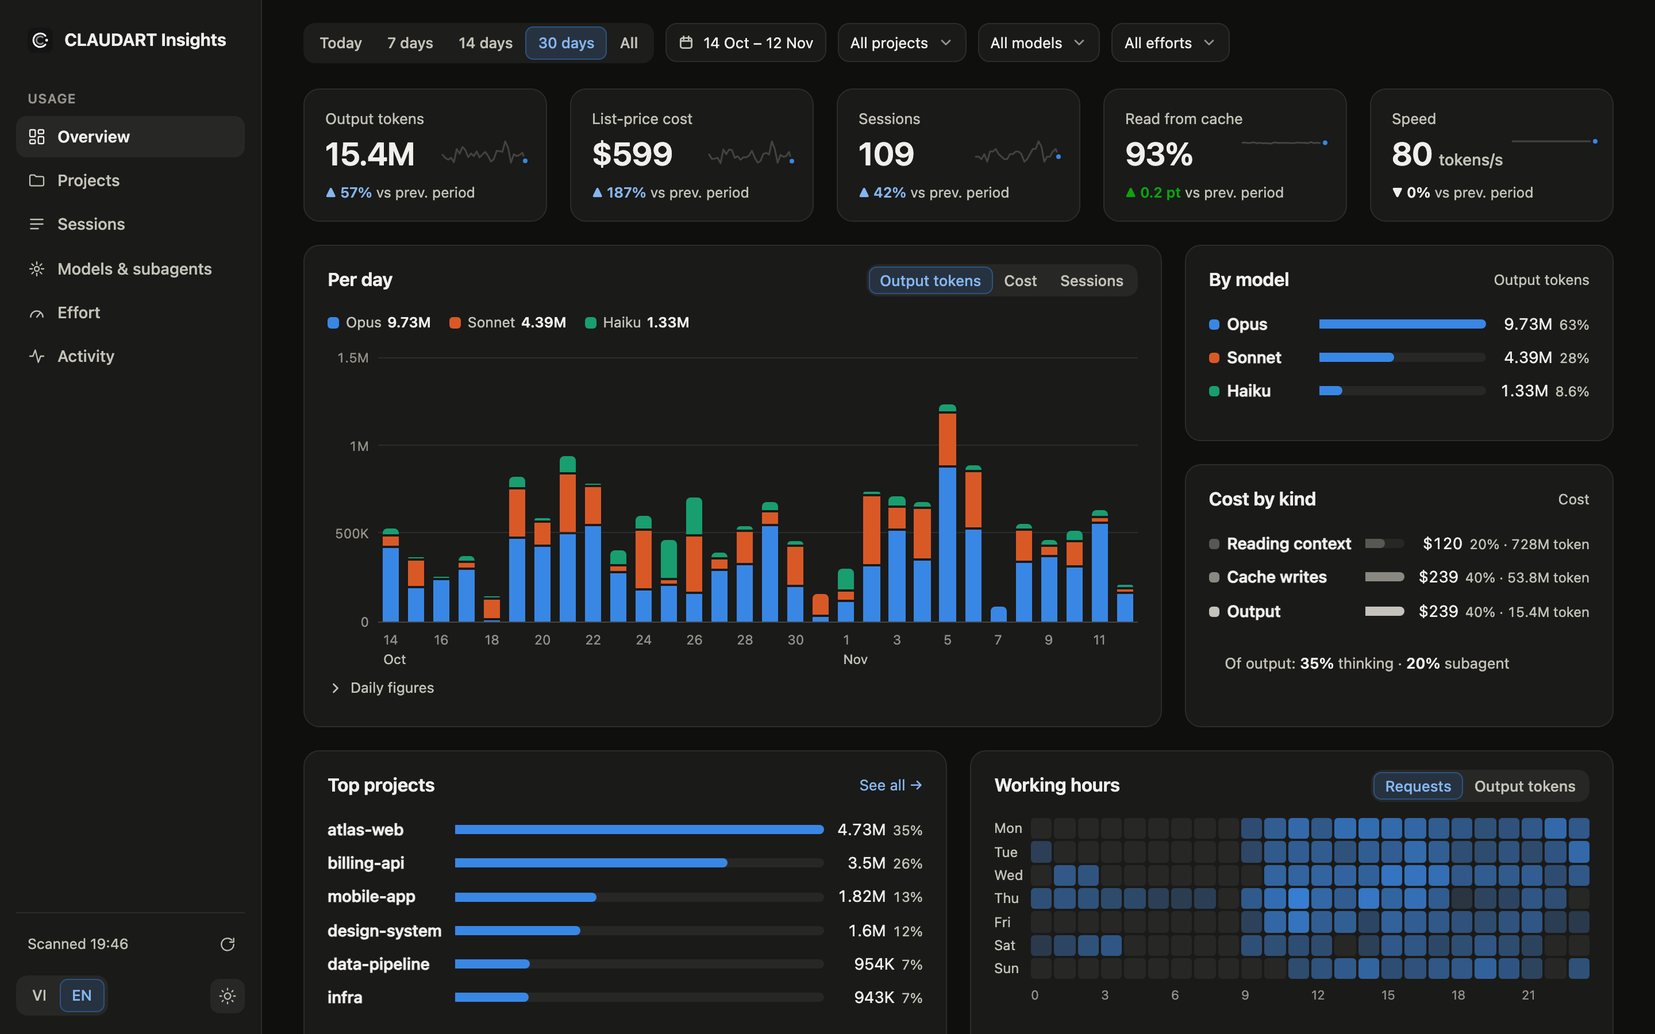
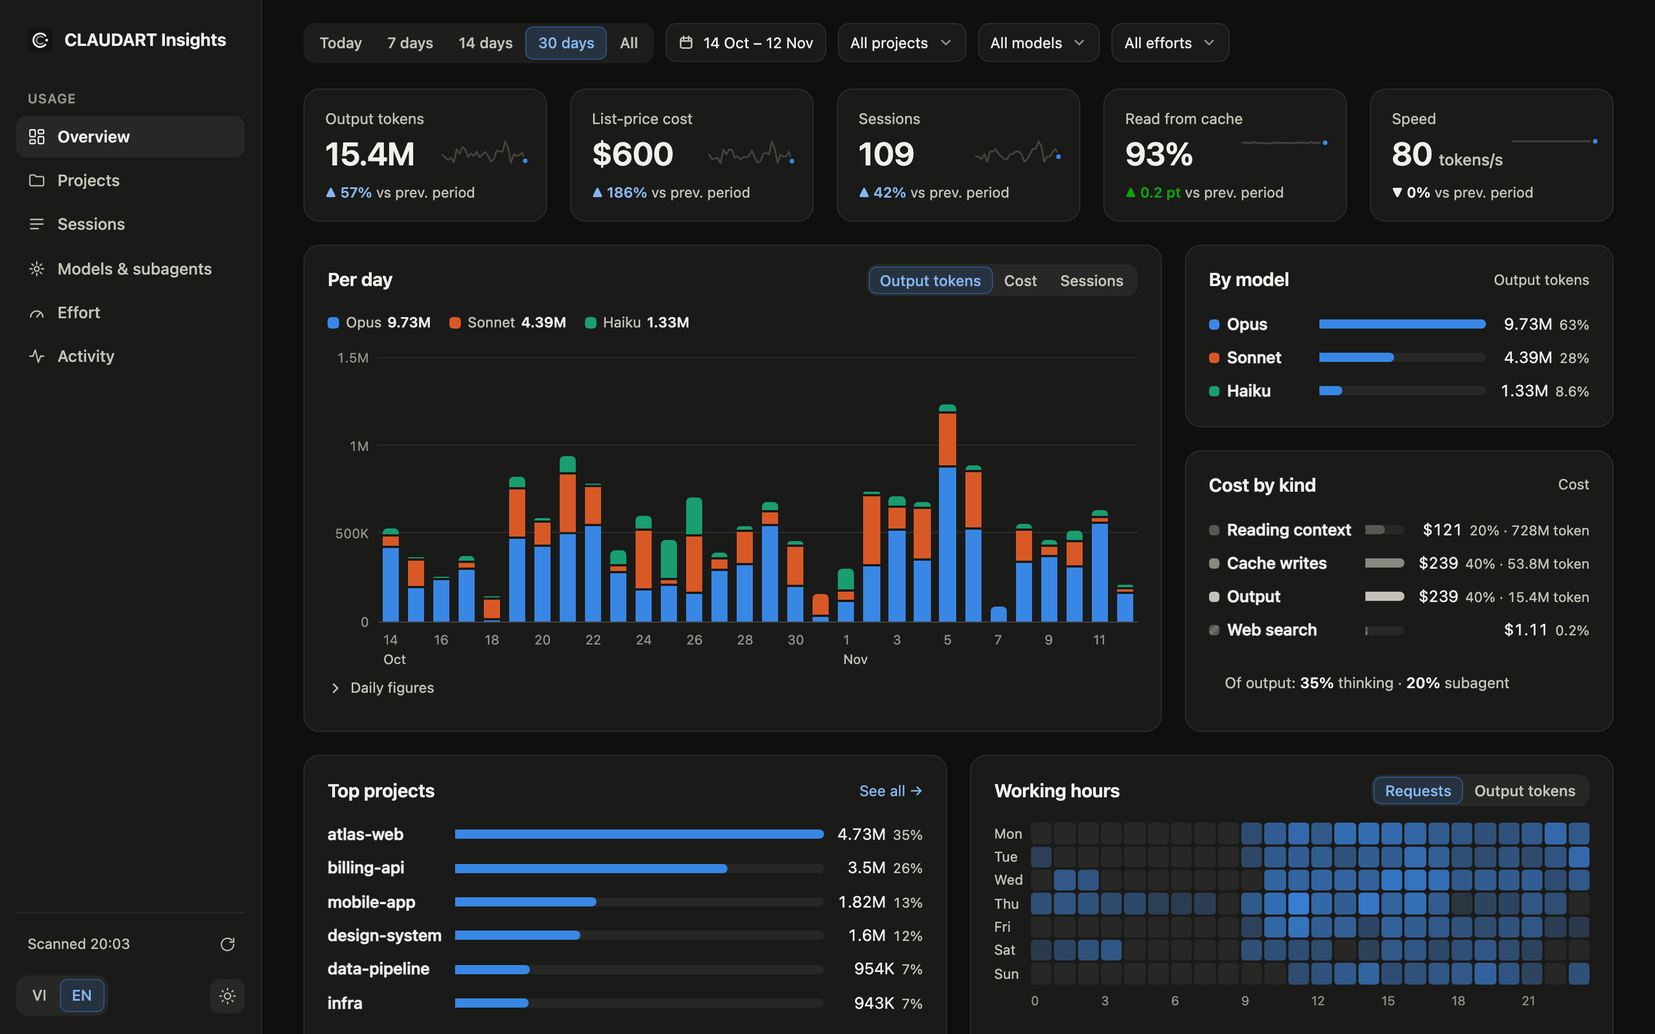
fix: split cost the host charged with no request, and show web search
Claude Code runs Haiku in the background, mostly for the WebSearch
tool, and writes no request to the transcript, so its whole cost showed
as not split. The host cost record's tokens per model are now kept and
split that cost with the price table. What a model that searched the
web cost beyond its priced tokens is a kind of its own, web search,
whether or not its requests are in the transcript.

Unlabelled bar segments drop their padding so a tiny part keeps its
true width.

Closes #12

diff --git a/dashboard/src/i18n.tsx b/dashboard/src/i18n.tsx
@@ -10,7 +10,7 @@ export const T = {
     rbInfo: "Mỗi request đọc lại cuộc trò chuyện từ prompt cache với giá rẻ. Khi cache mất, request đó phải ghi lại gần hết context vào cache, đắt gấp 25–40 lần đọc. Bảng đếm các lần ghi lại theo nguyên nhân; chi phí thêm là phần trả hơn so với chỉ đọc.", howToRead: "Cách đọc",
     rbTokens: "Token ghi lại", rbExtra: "Chi phí thêm", gapShort: "5–15 phút", gapMid: "15–60 phút", gapLong: "Trên 1 giờ", idleGap: "Đã nghỉ bao lâu trước lần dựng lại", lapses: "Cache hết hạn", session: "Phiên", modelEffort: "Model · effort", nSubs: (n: number) => `${n} subagent`, nLapses: (n: number) => `${n} lần cache hết hạn`,
     tools: "Công cụ được gọi", calls: "lượt", skills: "Skill được dùng", uses: "lượt", skillCount: "skill", skillTyped: "Gõ lệnh /", skillAgent: "Agent tự gọi", lastUsed: "Dùng gần nhất", showFewer: "Thu gọn", srcProject: "Project", srcPersonal: "Cá nhân", srcPlugin: "Plugin", srcBuiltin: "Có sẵn", srcOther: "Khác", errors: "lỗi", time: "Thời gian agent làm việc", linesAR: "Dòng code thêm / xoá", api: "Chờ model", tool: "Chạy công cụ", idle: "Chờ owner, nghỉ", lines: "Dòng code thêm và xoá", added: "Thêm", removed: "Xoá", compactions: "Lần nén context", ownerTurns: "Lượt owner",
-    lastActive: "Lần cuối", whereMoney: "Tiền đi vào model nào", ctxPerReq: "Context / request", costKinds: "Chi phí gồm", kRead: "Đọc context", kWrite: "Ghi cache", kOut: "Output", kRest: "Không tách được", splitModel: "Theo model", splitKind: "Theo loại chi phí", costByKind: "Chi phí theo loại", figures: "Bảng số liệu", mainVsSub: "Luồng chính và subagent", mainThread: "Luồng chính", routedTitle: "Subagent chạy trên model nào", spawnedOn: (p: string, m: string) => `${p} → ${m}`, costNotes: "Chi phí chưa chắc chắn", stUnknown: "không có bản ghi", stPartial: "chưa đủ", stEst: "ước tính", moreSess: (n: number) => `và ${n} phiên khác`, priceOff: (n: string, d: string) => `lệch bảng giá ở ${n} phiên, từ ${d}`, noPrice: "chưa có giá", costPerSess: "Chi phí mỗi phiên", avgDur: "Thời lượng mỗi phiên", turnsPerSess: "Lượt owner mỗi phiên", compactPerSess: "Nén context mỗi phiên", costPerKLines: "Chi phí mỗi 1.000 dòng code", allProj: "Mọi dự án", shareBy: "Phần của mỗi dự án",
+    lastActive: "Lần cuối", whereMoney: "Tiền đi vào model nào", ctxPerReq: "Context / request", costKinds: "Chi phí gồm", kRead: "Đọc context", kWrite: "Ghi cache", kOut: "Output", kWeb: "Web search", kRest: "Không tách được", splitModel: "Theo model", splitKind: "Theo loại chi phí", costByKind: "Chi phí theo loại", figures: "Bảng số liệu", mainVsSub: "Luồng chính và subagent", mainThread: "Luồng chính", routedTitle: "Subagent chạy trên model nào", spawnedOn: (p: string, m: string) => `${p} → ${m}`, costNotes: "Chi phí chưa chắc chắn", stUnknown: "không có bản ghi", stPartial: "chưa đủ", stEst: "ước tính", moreSess: (n: number) => `và ${n} phiên khác`, priceOff: (n: string, d: string) => `lệch bảng giá ở ${n} phiên, từ ${d}`, noPrice: "chưa có giá", costPerSess: "Chi phí mỗi phiên", avgDur: "Thời lượng mỗi phiên", turnsPerSess: "Lượt owner mỗi phiên", compactPerSess: "Nén context mỗi phiên", costPerKLines: "Chi phí mỗi 1.000 dòng code", allProj: "Mọi dự án", shareBy: "Phần của mỗi dự án",
     nodata: "Không có dữ liệu trong khoảng lọc này.", wd: ["T2", "T3", "T4", "T5", "T6", "T7", "CN"], wdShort: ["T2", "T3", "T4", "T5", "T6", "T7", "CN"], theme: "Đổi sáng/tối",
    
     refresh: "Làm mới", scanning: "Đang quét…", bootFind: "Đang tìm transcript…", bootFirst: "Đang đọc transcript lần đầu", bootRebuild: "Đang dựng lại dữ liệu sau khi cập nhật", bootUpdate: "Đang quét transcript mới", bootFinish: "Đang tổng hợp số liệu…", transcripts: "transcript", retry: "Thử lại", scanNew: (n: number) => `${n} phiên mới`, scanFail: "Quét lỗi", loadFail: "Không đọc được dữ liệu", loading: "Đang tải…" },
@@ -24,7 +24,7 @@ export const T = {
     rbInfo: "Each request rereads the conversation from the prompt cache at a low price. When the cache is gone, the request writes most of the context into it again, at 25–40 times the read price. The table counts these rewrites by cause; extra cost is what they cost beyond a read.", howToRead: "How to read",
     rbTokens: "Rewritten tokens", rbExtra: "Extra cost", gapShort: "5–15 min", gapMid: "15–60 min", gapLong: "Over 1 h", idleGap: "Idle time before the rebuild", lapses: "Cache lapses", session: "Session", modelEffort: "Model · effort", nSubs: (n: number) => `${n} subagent${n === 1 ? "" : "s"}`, nLapses: (n: number) => `${n} cache lapse${n === 1 ? "" : "s"}`,
     tools: "Tool calls", calls: "calls", skills: "Skills used", uses: "uses", skillCount: "skills", skillTyped: "Typed as /command", skillAgent: "Called by the agent", lastUsed: "Last used", showFewer: "Show fewer", srcProject: "Project", srcPersonal: "Personal", srcPlugin: "Plugin", srcBuiltin: "Built-in", srcOther: "Other", errors: "errors", time: "Agent working time", linesAR: "Lines added / removed", api: "Waiting for the model", tool: "Running tools", idle: "Idle, waiting for the owner", lines: "Lines added and removed", added: "Added", removed: "Removed", compactions: "Compactions", ownerTurns: "Owner turns",
-    lastActive: "Last active", whereMoney: "Which model the money goes to", ctxPerReq: "Context per request", costKinds: "Cost made of", kRead: "Reading context", kWrite: "Cache writes", kOut: "Output", kRest: "Not split", splitModel: "By model", splitKind: "By cost kind", costByKind: "Cost by kind", figures: "Figures", mainVsSub: "Main thread and subagents", mainThread: "Main thread", routedTitle: "Which model subagents ran on", spawnedOn: (p: string, m: string) => `${p} → ${m}`, costNotes: "Cost not certain", stUnknown: "no record", stPartial: "incomplete", stEst: "estimated", moreSess: (n: number) => `and ${n} more sessions`, priceOff: (n: string, d: string) => `off the price table in ${n} sessions since ${d}`, noPrice: "no price", costPerSess: "Cost per session", avgDur: "Length per session", turnsPerSess: "Owner turns per session", compactPerSess: "Compactions per session", costPerKLines: "Cost per 1,000 lines", allProj: "All projects", shareBy: "Each project's share",
+    lastActive: "Last active", whereMoney: "Which model the money goes to", ctxPerReq: "Context per request", costKinds: "Cost made of", kRead: "Reading context", kWrite: "Cache writes", kOut: "Output", kWeb: "Web search", kRest: "Not split", splitModel: "By model", splitKind: "By cost kind", costByKind: "Cost by kind", figures: "Figures", mainVsSub: "Main thread and subagents", mainThread: "Main thread", routedTitle: "Which model subagents ran on", spawnedOn: (p: string, m: string) => `${p} → ${m}`, costNotes: "Cost not certain", stUnknown: "no record", stPartial: "incomplete", stEst: "estimated", moreSess: (n: number) => `and ${n} more sessions`, priceOff: (n: string, d: string) => `off the price table in ${n} sessions since ${d}`, noPrice: "no price", costPerSess: "Cost per session", avgDur: "Length per session", turnsPerSess: "Owner turns per session", compactPerSess: "Compactions per session", costPerKLines: "Cost per 1,000 lines", allProj: "All projects", shareBy: "Each project's share",
     nodata: "No data in this filter range.", wd: ["Mon", "Tue", "Wed", "Thu", "Fri", "Sat", "Sun"], wdShort: ["Mo", "Tu", "We", "Th", "Fr", "Sa", "Su"], theme: "Toggle light/dark",
    
     refresh: "Refresh", scanning: "Scanning…", bootFind: "Finding transcripts…", bootFirst: "Reading your transcripts for the first time", bootRebuild: "Rebuilding the data after an update", bootUpdate: "Scanning new transcripts", bootFinish: "Putting the figures together…", transcripts: "transcripts", retry: "Try again", scanNew: (n: number) => `${n} new sessions`, scanFail: "Scan failed", loadFail: "Cannot read the data", loading: "Loading…" },

diff --git a/dashboard/src/styles.css b/dashboard/src/styles.css
@@ -3,7 +3,7 @@
   --hair: #e4e3dc; --base: #c9c8be; --wash: rgba(11,11,11,.045); --accent: #2a78d6; --accent-ink: #1c5cab;
   --s1: #2a78d6; --s2: #eb6834; --s3: #1baf7a; --s4: #eda100; --s5: #e87ba4; --s0: #b9b8b0; --sub: #6d4fe8; --seq: #2a78d6;
   --v0: #c9c4fb; --v1: #9d93f5; --v2: #6f5ce6; --v3: #4630c0; --v4: #26177a;
-  --k0: #dcdad2; --k1: #a5a39a; --k2: #64625c;
+  --k0: #dcdad2; --k1: #a5a39a; --k2: #64625c; --kw: repeating-linear-gradient(135deg, #dcdad2 0 4px, #c2c0b8 4px 8px);
   --good: #0ca30c; --up: #1c5cab; --neg: #d03b3b; --shadow: 0 8px 28px rgba(0,0,0,.10);
   --sb: rgba(11,11,11,.18); --sb-hover: rgba(11,11,11,.34);
 }
@@ -12,7 +12,7 @@
   --hair: #2c2c2a; --base: #44443f; --wash: rgba(255,255,255,.06); --accent: #3987e5; --accent-ink: #86b6ef;
   --s1: #3987e5; --s2: #d95926; --s3: #199e70; --s4: #c98500; --s5: #d55181; --s0: #5a5a55; --sub: #7b66f0; --seq: #3987e5;
   --v0: #30286a; --v1: #4e42ae; --v2: #7c6ff0; --v3: #b2abff; --v4: #e4e1ff;
-  --k0: #585853; --k1: #8a8981; --k2: #c4c2ba;
+  --k0: #585853; --k1: #8a8981; --k2: #c4c2ba; --kw: repeating-linear-gradient(135deg, #585853 0 4px, #6e6d67 4px 8px);
   --good: #0ca30c; --up: #86b6ef; --neg: #e66767; --shadow: 0 8px 28px rgba(0,0,0,.5);
   --sb: rgba(255,255,255,.16); --sb-hover: rgba(255,255,255,.32);
 }
@@ -163,15 +163,16 @@ tbody tr.go:hover td, tbody tr.go:hover th { background: var(--wash); }
 .heat .cell { aspect-ratio: 1 / 1; max-height: 26px; width: 100%; border-radius: 3px; background: color-mix(in srgb, var(--seq) var(--m), var(--wash)); }
 .heat .cell:hover { outline: 2px solid var(--ink); outline-offset: -1px; }
 .split { display: flex; gap: 2px; height: 28px; margin: 4px 0 12px; }
-.split i { display: flex; align-items: center; padding: 0 9px; border-radius: 4px; color: #fff; font-size: 12.5px; font-style: normal; font-weight: 600; overflow: hidden; white-space: nowrap; }
+.split i { display: flex; align-items: center; padding: 0 9px; border-radius: 4px; color: #fff; font-size: 12.5px; font-style: normal; font-weight: 600; overflow: hidden; white-space: nowrap; } .split i:empty { padding: 0; }
 .split i.c4 { color: #0b0b0b; } .split i.c0 { color: var(--ink); }
 .money td.wide, .money th.wide { width: 55%; }
-.rank .b.k0 { background: var(--k0); } .rank .b.k1 { background: var(--k1); } .rank .b.k2 { background: var(--k2); } .rank .b.kx { background: transparent; box-shadow: inset 0 0 0 1px var(--base); }
+.rank .b.k0 { background: var(--k0); } .rank .b.k1 { background: var(--k1); } .rank .b.k2 { background: var(--k2); } .rank .b.kw { background: var(--kw); } .rank .b.kx { background: transparent; box-shadow: inset 0 0 0 1px var(--base); }
 .split.kinds { height: 24px; min-width: 240px; margin: 0; cursor: default; }
-/* Cost kinds: a neutral ramp, so money reads as neither gained nor lost; a part that cannot be split is only outlined. */
-.k0 { background: var(--k0); } .k1 { background: var(--k1); } .k2 { background: var(--k2); } .kx { background: transparent; box-shadow: inset 0 0 0 1px var(--base); }
-.split i.k0, .split i.k1 { color: #0b0b0b; } .split i.k2 { color: #fff; } .split i.kx { color: var(--ink2); }
-:root[data-theme="dark"] .split i.k0, :root[data-theme="dark"] .split i.k1 { color: #fff; } :root[data-theme="dark"] .split i.k2 { color: #0b0b0b; }
+/* Cost kinds: a neutral ramp, so money reads as neither gained nor lost; web search, a fee rather than tokens, is striped;
+   a part that cannot be split is only outlined. */
+.k0 { background: var(--k0); } .k1 { background: var(--k1); } .k2 { background: var(--k2); } .kw { background: var(--kw); } .kx { background: transparent; box-shadow: inset 0 0 0 1px var(--base); }
+.split i.k0, .split i.k1, .split i.kw { color: #0b0b0b; } .split i.k2 { color: #fff; } .split i.kx { color: var(--ink2); }
+:root[data-theme="dark"] .split i.k0, :root[data-theme="dark"] .split i.k1, :root[data-theme="dark"] .split i.kw { color: #fff; } :root[data-theme="dark"] .split i.k2 { color: #0b0b0b; }
 .note { margin: 14px 0 0; color: var(--ink2); font-size: 12.5px; }
 .empty { padding: 40px 0; text-align: center; color: var(--ink2); }
 #tip { position: fixed; z-index: 9; display: none; min-width: 150px; max-width: 400px; padding: 10px 12px; border: 1px solid var(--base); border-radius: 10px; background: var(--raised); box-shadow: var(--shadow); font-size: 12.5px; pointer-events: none; }

diff --git a/dashboard/src/model.ts b/dashboard/src/model.ts
@@ -72,6 +72,7 @@ export function rebuilds(F: Fact[]): Rebuilds {
 
 // A cost as [reading the context, writing the cache, output, what the price table cannot split]: the last part is a
 // model without a price row, or a cost the host charged without a request in the transcript; under 1% it is dropped.
+// A cost as reading the context, writing the cache, output, web search and the rest the price table cannot split.
 export function costParts(c: number, k: number[]) {
   const rest = c - k.reduce((a, b) => a + b, 0);
   return [...k, rest > c * 0.01 ? rest : 0];
@@ -81,21 +82,22 @@ export function costParts(c: number, k: number[]) {
 export function byDayKinds(F: Fact[], list: (string | number)[]) {
   const slot = typeof list[0] === "number" ? (f: Fact) => f.h : (f: Fact) => f.d;
   const idx = new Map<string | number, number>(list.map((d, i) => [d, i]));
-  const rows = list.map(() => [0, 0, 0, 0]);
+  const rows = list.map(() => [0, 0, 0, 0, 0]);
   for (const f of F) {
     const i = idx.get(slot(f));
     if (i === undefined) continue;
-    const k = f.k ?? [0, 0, 0];
-    rows[i][0] += k[0]; rows[i][1] += k[1]; rows[i][2] += k[2]; rows[i][3] += f.c - k[0] - k[1] - k[2];
+    const k = f.k ?? [0, 0, 0, 0];
+    for (let j = 0; j < 4; j++) rows[i][j] += k[j];
+    rows[i][4] += f.c - k[0] - k[1] - k[2] - k[3];
   }
   // A rounding remainder is not a part of its own.
-  for (const r of rows) if (r[3] < (r[0] + r[1] + r[2] + r[3]) * 0.01) r[3] = 0;
+  for (const r of rows) if (r[4] < r.reduce((a, b) => a + b, 0) * 0.01) r[4] = 0;
   return rows;
 }
 
 export type Totals = ReturnType<typeof totals>;
 export function totals(M: Model, F: Fact[]) {
-  const a = { o: 0, c: 0, i: 0, cr: 0, cw: 0, q: 0, th: 0, n: 0, hit: 0, ctx: 0, tps: 0, k: [0, 0, 0], sess: new Set<number>() };
+  const a = { o: 0, c: 0, i: 0, cr: 0, cw: 0, q: 0, th: 0, n: 0, hit: 0, ctx: 0, tps: 0, k: [0, 0, 0, 0], sess: new Set<number>() };
   for (const f of F) { a.o += f.o; a.c += f.c; a.i += f.i; a.cr += f.cr; a.cw += f.cw; a.q += f.q; a.th += f.th; a.sess.add(f.s); f.k?.forEach((x, j) => { a.k[j] += x; }); }
   const ss = [...a.sess].map((s) => M.sessions[s]);
   a.n = a.sess.size; a.hit = a.cr / (a.cr + a.cw + a.i || 1); a.ctx = context(a);

diff --git a/dashboard/src/views/Overview.tsx b/dashboard/src/views/Overview.tsx
@@ -12,15 +12,15 @@ export function Overview({ F, list }: { F: Fact[]; list: string[] }) {
   const daily = (pick: (x: Fact[]) => number) => list.map((d) => pick(F.filter((x) => x.d === d)));
   const tile = (label: string, value: ReactNode, d: ReactNode, series: number[]) => <Kpi label={label} value={value} d={d} series={series} />;
   const metric = S.metric, flags = useCostFlags(F);
-  // Cost can split by what it paid for instead of by model; the part that cannot be split shows only when present.
+  // Cost can split by what it paid for instead of by model; web search and the part that cannot be split show only when present.
   const kinds = useCostKinds(), byKind = metric === "cost" && S.split === "kind";
   const slots = slotsOf(list), hourly = slots !== list;
   const kindRows = byKind ? byDayKinds(F, slots) : [];
-  const keep = byKind && kindRows.some((r) => r[3]) ? 4 : 3;
-  const groups = byKind ? kinds.slice(0, keep) : metric === "sess" ? [{ n: t("sess"), c: "c1" }] : M.models.map((n, i) => ({ n, c: "c" + (i + 1) }));
-  const rows = byKind ? kindRows.map((r) => r.slice(0, keep)) : metric === "sess" ? byDay(F, slots, () => 0, groups, "sess") : byDay(F, slots, (x) => x.m, groups, metric);
+  const keep = kinds.map((_, j) => j < 3 || kindRows.some((r) => r[j]));
+  const groups = byKind ? kinds.filter((_, j) => keep[j]) : metric === "sess" ? [{ n: t("sess"), c: "c1" }] : M.models.map((n, i) => ({ n, c: "c" + (i + 1) }));
+  const rows = byKind ? kindRows.map((r) => r.filter((_, j) => keep[j])) : metric === "sess" ? byDay(F, slots, () => 0, groups, "sess") : byDay(F, slots, (x) => x.m, groups, metric);
   // The window's cost by kind, with the tokens behind each part: input counts with the cache reads it sits beside.
-  const spent = costParts(now.c, now.k), tokens = [now.i + now.cr, now.cw, now.o, 0];
+  const spent = costParts(now.c, now.k), tokens = [now.i + now.cr, now.cw, now.o, 0, 0];
   const sums = groups.map((_, k) => rows.reduce((n, r) => n + r[k], 0));
   const gm = group(F, (x) => x.m, metric), gp = group(F, (x) => M.sessions[x.s].p, metric);
   const models = M.models.map((n, i) => ({ n, c: "c" + (i + 1), v: gm.get(i) || 0 })).filter((r) => r.v).sort((a, b) => b.v - a.v);

diff --git a/dashboard/src/model.test.ts b/dashboard/src/model.test.ts
@@ -38,12 +38,12 @@ test("context per request counts input, cache reads and cache writes", () => {
 });
 
 test("cost parts keep what the table cannot split only when it is at least 1% of the cost", () => {
-  assert.deepEqual(costParts(10, [5, 2, 1]), [5, 2, 1, 2]);
-  assert.deepEqual(costParts(10, [5, 3, 1.95]), [5, 3, 1.95, 0]);
+  assert.deepEqual(costParts(10, [5, 2, 1, 0]), [5, 2, 1, 0, 2]);
+  assert.deepEqual(costParts(10, [4, 3, 1.95, 1]), [4, 3, 1.95, 1, 0]);
 });
 
 test("cost per day splits each fact's priced parts and puts the rest of its cost apart", () => {
   const f = (d: string, c: number, k: number[] | null): Fact => ({ ...fact(null), d, c, k });
-  const rows = byDayKinds([f("2026-11-01", 4, [1, 1, 2]), f("2026-11-01", 3, null), f("2026-11-02", 2, [1, 0.5, 0.5])], ["2026-11-01", "2026-11-02"]);
-  assert.deepEqual(rows, [[1, 1, 2, 3], [1, 0.5, 0.5, 0]]);
+  const rows = byDayKinds([f("2026-11-01", 4, [1, 1, 1, 1]), f("2026-11-01", 3, null), f("2026-11-02", 2, [1, 0.5, 0.5, 0])], ["2026-11-01", "2026-11-02"]);
+  assert.deepEqual(rows, [[1, 1, 1, 1, 3], [1, 0.5, 0.5, 0, 0]]);
 });

diff --git a/dashboard/src/views/Models.tsx b/dashboard/src/views/Models.tsx
@@ -21,9 +21,9 @@ export function Models({ F }: { F: Fact[] }) {
   }).filter((r) => r.count).sort((a, b) => b.count - a.count);
   const subOut = per.reduce((n, r) => n + r.sub, 0);
   const models = M.models.map((n, i) => ({ n, c: "c" + (i + 1) }));
-  // Each model's cost split by what it paid for; the part the table cannot split is named only when some model has it.
+  // Each model's cost split by what it paid for; web search and the part the table cannot split are named only when some model has them.
   const kinds = useCostKinds(), parts = (r: (typeof per)[number]) => costParts(r.tt.c, r.tt.k);
-  const shown = kinds.filter((_, j) => j < 3 || per.some((r) => parts(r)[3]));
+  const shown = kinds.filter((_, j) => j < 3 || per.some((r) => parts(r)[j]));
 
   if (!per.length) return <section className="card"><Empty /></section>;
   // The model's whole cost as one bar, its parts labelled with their share when there is room; amounts in the tooltip.

diff --git a/dashboard/src/ui.tsx b/dashboard/src/ui.tsx
@@ -90,10 +90,10 @@ export function Legend({ groups, sums, metric, style }: { groups: Group[]; sums?
   );
 }
 
-// The parts of a cost, in costParts order, with their neutral colors; the last one is only outlined.
+// The parts of a cost, in costParts order, with their neutral colors; web search is striped, the rest only outlined.
 export function useCostKinds(): Group[] {
   const { t } = useDash();
-  return [{ n: t("kRead"), c: "k0" }, { n: t("kWrite"), c: "k1" }, { n: t("kOut"), c: "k2" }, { n: t("kRest"), c: "kx" }];
+  return [{ n: t("kRead"), c: "k0" }, { n: t("kWrite"), c: "k1" }, { n: t("kOut"), c: "k2" }, { n: t("kWeb"), c: "kw" }, { n: t("kRest"), c: "kx" }];
 }
 
 // How a cost chart splits its columns: by model or by what the money paid for.

diff --git a/README_VI.md b/README_VI.md
@@ -116,6 +116,8 @@ Dự án của một phiên là thư mục gần nhất, từ thư mục làm vi
 
 Claude Code ghi chi phí cho mỗi phiên; Insights dùng con số đó và chia cho các request của phiên theo token, tính giá của chính ngày hôm đó trong [prices.md](prices.md) (USD cho một triệu token, mỗi dòng ứng với một model và ngày bắt đầu hiệu lực). Phiên không có bản ghi chi phí được ước tính từ bảng giá và được đánh dấu. `prices` và báo cáo của lần quét cho biết chỗ số của Claude Code lệch bảng giá; hãy thêm dòng mới từ ngày giá đổi, đừng sửa dòng cũ.
 
+Mỗi khoản chi phí được tách theo thứ nó trả cho: đọc context, ghi cache, output và web search. Claude Code còn gọi model ngầm, trong đó có Haiku cho công cụ WebSearch, mà không ghi các lần gọi đó vào transcript; chi phí của chúng được tách theo số token Claude Code đã ghi cho model đó. Web search là phần một model có tìm kiếm web tốn thêm ngoài số token của nó tính theo bảng giá. Model chưa có dòng giá thì giữ nguyên là "Không tách được".
+
 Chi phí tính theo giá niêm yết. Với gói thuê bao, đó là hạn mức đã dùng, không phải tiền.
 
 </details>

diff --git a/README.md b/README.md
@@ -116,6 +116,8 @@ A session's project is the nearest folder at or above its working directory that
 
 Claude Code records a cost per session; Insights uses that figure and spreads it over the session's requests by their tokens priced on their own day from [prices.md](prices.md) (USD per million tokens, one row per model and start date). A session without a cost record is estimated from the table and marked as such. `prices` and the scan report show where Claude Code's figures and the table disagree; add a row from the day a price changes and never edit an old row.
 
+Each cost is split into what it paid for: reading the context, cache writes, output and web search. Claude Code also calls models in the background, Haiku for the WebSearch tool among them, without writing those calls to the transcript; their cost is split by the tokens Claude Code recorded for that model. Web search is what a model that searched the web cost beyond its tokens priced from the table. A model without a price row stays as "Not split".
+
 Cost is list price. On a subscription it is quota spent, not money.
 
 </details>
